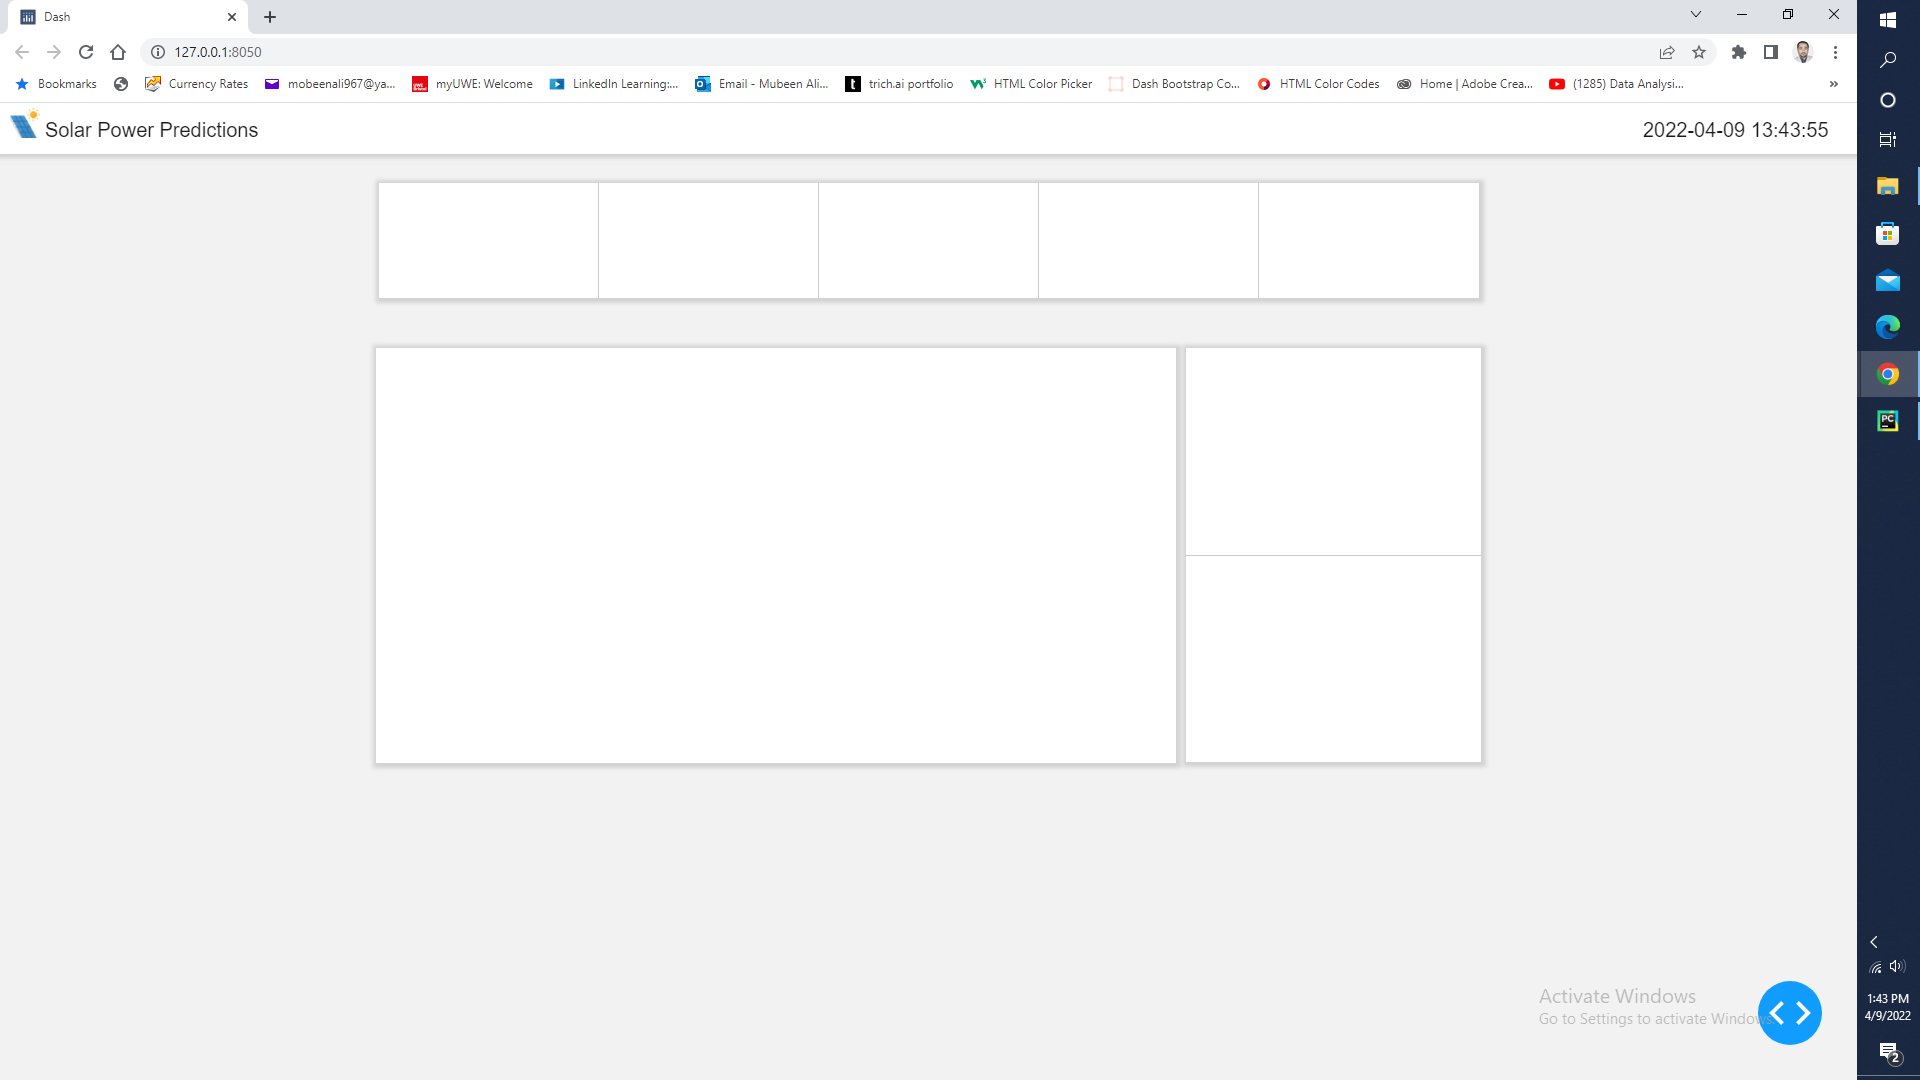
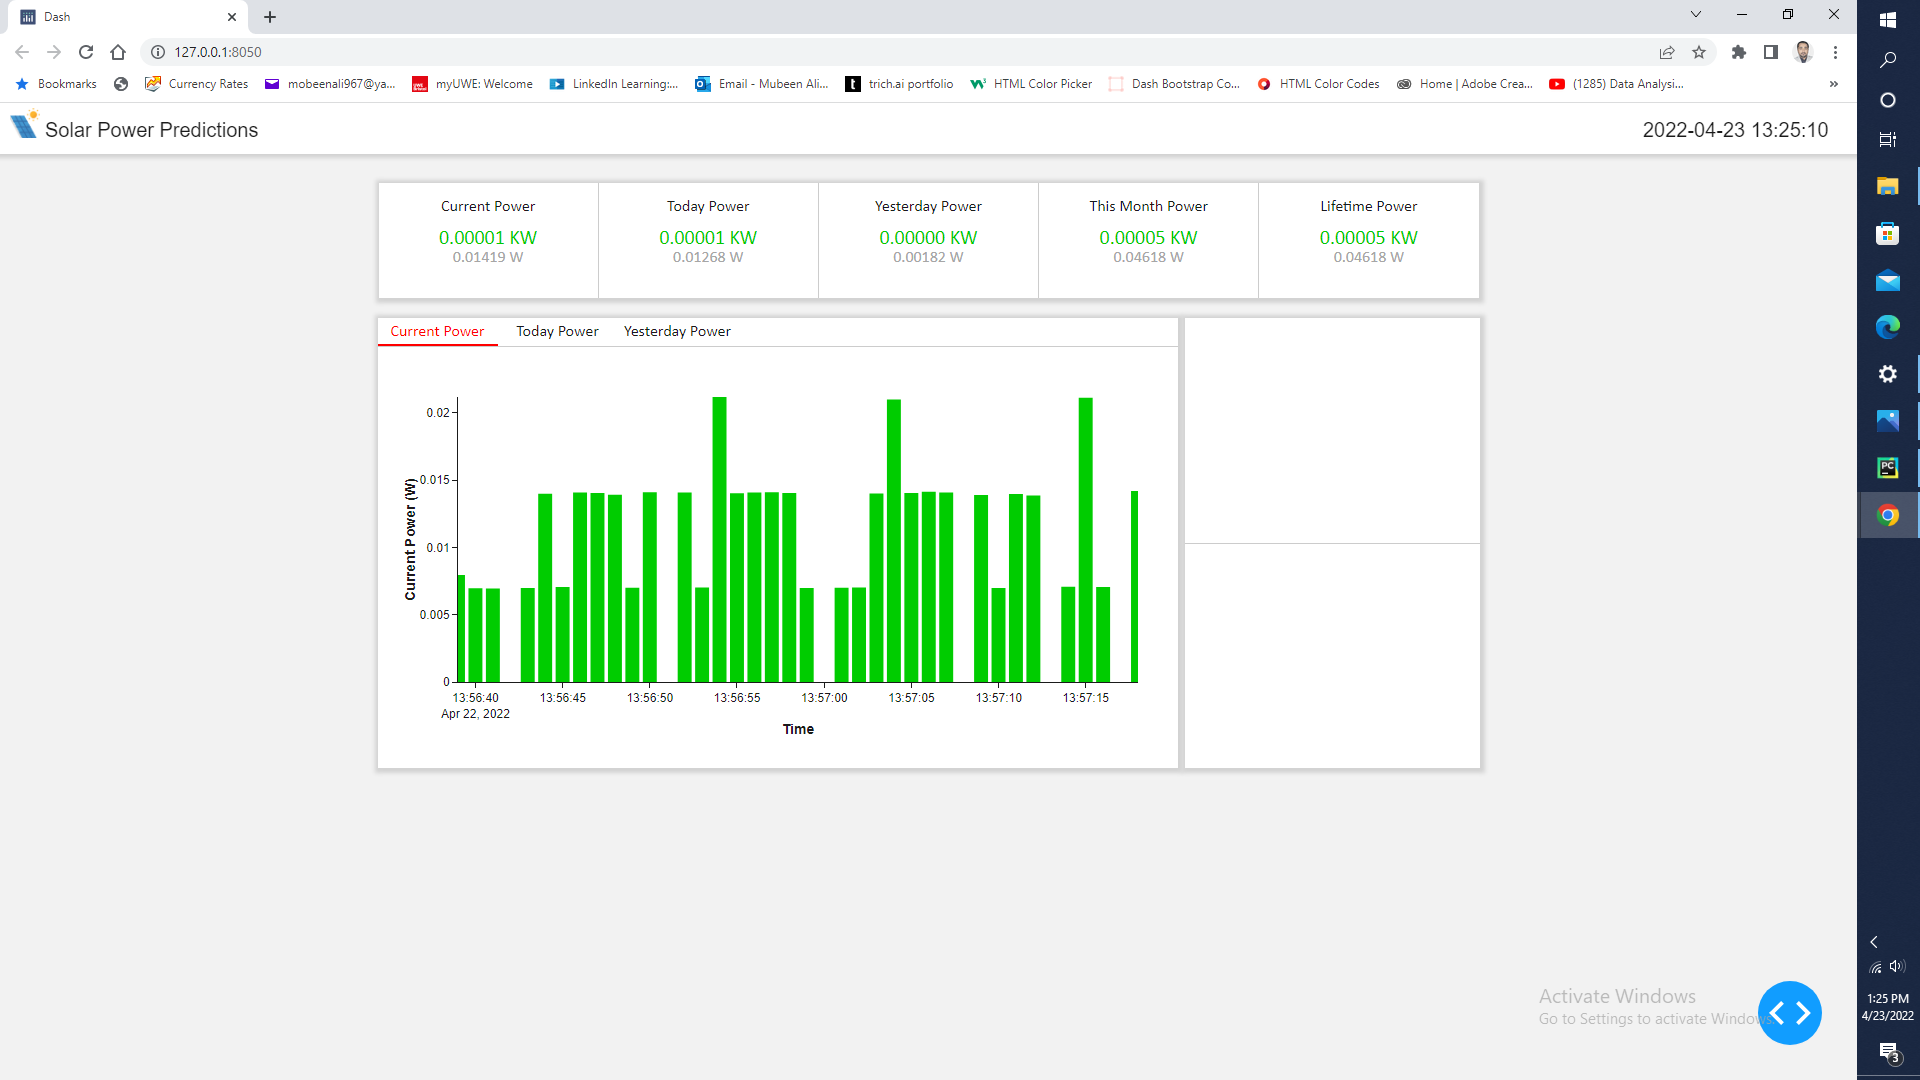
first commit

diff --git a/index.py b/index.py
@@ -13,6 +13,8 @@ from components.solar_third_card import solar_third_card_value
 from components.solar_fourth_card import solar_fourth_card_value
 from components.solar_fifth_card import solar_fifth_card_value
 from components.solar_current_power_chart import solar_current_power_chart_value
+from components.solar_today_power_chart import solar_today_power_chart_value
+from components.solar_yesterday_power_chart import solar_yesterday_power_chart_value
 
 font_awesome = "https://use.fontawesome.com/releases/v5.10.2/css/all.css"
 meta_tags = [{"name": "viewport", "content": "width=device-width"}]
@@ -46,8 +48,14 @@ solar_current_power_chart = dcc.Graph(id = 'solar_current_power_chart',
                                       animate = True,
                                       config = {'displayModeBar': False},
                                       className = 'background2')
-today_power = html.P('Today Power', className = 'background2')
-yesterday_power = html.P('Yesterday Power', className = 'background2')
+solar_today_power_chart = dcc.Graph(id = 'solar_today_power_chart',
+                                    animate = True,
+                                    config = {'displayModeBar': False},
+                                    className = 'background2')
+solar_yesterday_power_chart = dcc.Graph(id = 'solar_yesterday_power_chart',
+                                        animate = True,
+                                        config = {'displayModeBar': False},
+                                        className = 'background2')
 
 app.layout = html.Div([
     html.Div([
@@ -92,22 +100,22 @@ app.layout = html.Div([
     ], className = 'adjust_margin1'),
     html.Div([
         html.Div([
-            dcc.Tabs(value = 'today_power', children = [
+            dcc.Tabs(value = 'solar_today_power_chart', children = [
                 dcc.Tab(solar_current_power_chart,
                         label = 'Current Power',
                         value = 'solar_current_power_chart',
                         style = tab_style,
                         selected_style = tab_selected_style,
                         ),
-                dcc.Tab(today_power,
+                dcc.Tab(solar_today_power_chart,
                         label = 'Today Power',
-                        value = 'today_power',
+                        value = 'solar_today_power_chart',
                         style = tab_style,
                         selected_style = tab_selected_style,
                         ),
-                dcc.Tab(yesterday_power,
+                dcc.Tab(solar_yesterday_power_chart,
                         label = 'Yesterday Power',
-                        value = 'yesterday_power',
+                        value = 'solar_yesterday_power_chart',
                         style = tab_style,
                         selected_style = tab_selected_style,
                         ),
@@ -182,6 +190,22 @@ def solar_current_power_chart_value_callback(n_intervals):
     solar_current_power_chart_value_data = solar_current_power_chart_value(n_intervals)
 
     return solar_current_power_chart_value_data
+
+
+@app.callback(Output('solar_today_power_chart', 'figure'),
+              [Input('update_date_time_value', 'n_intervals')])
+def solar_today_power_chart_value_callback(n_intervals):
+    solar_today_power_chart_value_data = solar_today_power_chart_value(n_intervals)
+
+    return solar_today_power_chart_value_data
+
+
+@app.callback(Output('solar_yesterday_power_chart', 'figure'),
+              [Input('update_date_time_value', 'n_intervals')])
+def solar_yesterday_power_chart_value_callback(n_intervals):
+    solar_yesterday_power_chart_value_data = solar_yesterday_power_chart_value(n_intervals)
+
+    return solar_yesterday_power_chart_value_data
 
 
 if __name__ == "__main__":

diff --git a/components/solar_yesterday_power_chart.py b/components/solar_yesterday_power_chart.py
@@ -25,23 +25,28 @@ html.Div([
 ]),
 
 
-def solar_current_power_chart_value(n_intervals):
+def solar_yesterday_power_chart_value(n_intervals):
     header_list = ['Date Time', 'Voltage', 'Current']
     df = pd.read_csv('sensors_data.csv', names = header_list)
-    date_time = df['Date Time'].tail(35)
-    get_voltage = df['Voltage'].tail(35)
-    get_current = df['Current'].tail(35)
-    power_watt = get_voltage * get_current
+    df['Date Time'] = pd.to_datetime(df['Date Time'])
+    df['Date'] = df['Date Time'].dt.date
+    df['Date'] = pd.to_datetime(df['Date'])
+    today_date = df['Date'].unique()
+    date_time = df[df['Date'] == today_date[-2]]['Date Time'].tail(100)
+    today_voltage = df[df['Date'] == today_date[-2]]['Voltage'].tail(100)
+    today_current = df[df['Date'] == today_date[-2]]['Current'].tail(100)
+    power_watt = today_voltage * today_current
 
     return {
-        'data': [go.Bar(
+        'data': [go.Scatter(
             x = date_time,
             y = power_watt,
-            marker = dict(color = '#00cc00'),
+            mode = 'lines',
+            marker = dict(color = '#4DBFF1'),
             hoverinfo = 'text',
             hovertext =
             '<b>Time</b>: ' + date_time.astype(str) + '<br>' +
-            '<b>Current Power</b>: ' + [f'{x:,.5f} W' for x in power_watt] + '<br>'
+            '<b>Yesterday Power</b>: ' + [f'{x:,.5f} W' for x in power_watt] + '<br>'
         )],
 
         'layout': go.Layout(
@@ -74,7 +79,7 @@ def solar_current_power_chart_value(n_intervals):
                          ),
 
             yaxis = dict(range = [min(power_watt), max(power_watt)],
-                         title = '<b>Current Power (W)</b>',
+                         title = '<b>Yesterday Power (W)</b>',
                          color = '#1a1a1a',
                          showline = True,
                          showgrid = False,

diff --git a/components/solar_today_power_chart.py b/components/solar_today_power_chart.py
@@ -25,23 +25,28 @@ html.Div([
 ]),
 
 
-def solar_current_power_chart_value(n_intervals):
+def solar_today_power_chart_value(n_intervals):
     header_list = ['Date Time', 'Voltage', 'Current']
     df = pd.read_csv('sensors_data.csv', names = header_list)
-    date_time = df['Date Time'].tail(35)
-    get_voltage = df['Voltage'].tail(35)
-    get_current = df['Current'].tail(35)
-    power_watt = get_voltage * get_current
+    df['Date Time'] = pd.to_datetime(df['Date Time'])
+    df['Date'] = df['Date Time'].dt.date
+    df['Date'] = pd.to_datetime(df['Date'])
+    today_date = df['Date'].unique()
+    date_time = df[df['Date'] == today_date[-1]]['Date Time'].tail(100)
+    today_voltage = df[df['Date'] == today_date[-1]]['Voltage'].tail(100)
+    today_current = df[df['Date'] == today_date[-1]]['Current'].tail(100)
+    power_watt = today_voltage * today_current
 
     return {
-        'data': [go.Bar(
+        'data': [go.Scatter(
             x = date_time,
             y = power_watt,
-            marker = dict(color = '#00cc00'),
+            mode = 'lines',
+            line = dict(width = 2, color = '#F1AB4D'),
             hoverinfo = 'text',
             hovertext =
             '<b>Time</b>: ' + date_time.astype(str) + '<br>' +
-            '<b>Current Power</b>: ' + [f'{x:,.5f} W' for x in power_watt] + '<br>'
+            '<b>Today Power</b>: ' + [f'{x:,.5f} W' for x in power_watt] + '<br>'
         )],
 
         'layout': go.Layout(
@@ -74,7 +79,7 @@ def solar_current_power_chart_value(n_intervals):
                          ),
 
             yaxis = dict(range = [min(power_watt), max(power_watt)],
-                         title = '<b>Current Power (W)</b>',
+                         title = '<b>Today Power (W)</b>',
                          color = '#1a1a1a',
                          showline = True,
                          showgrid = False,
